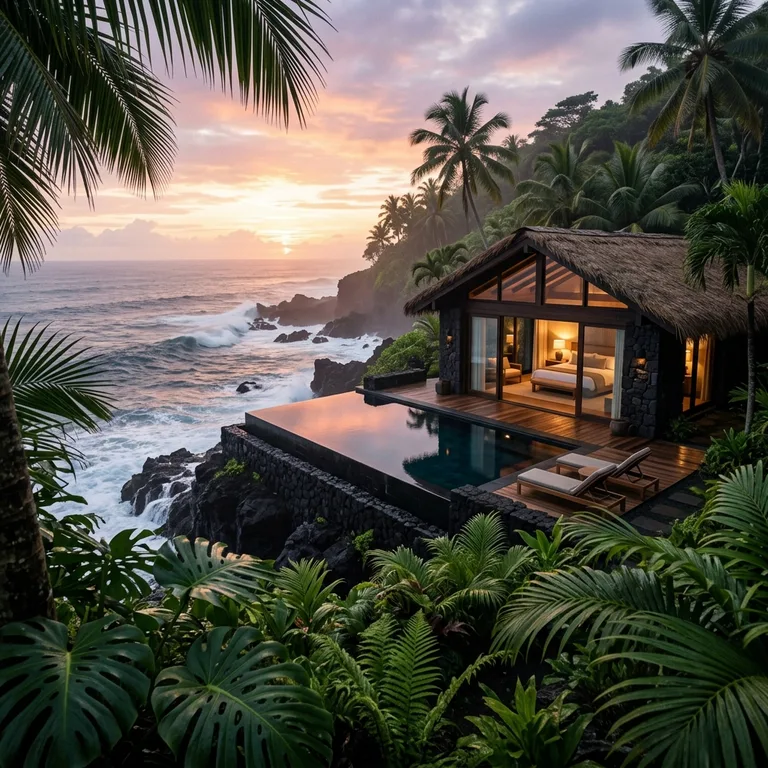
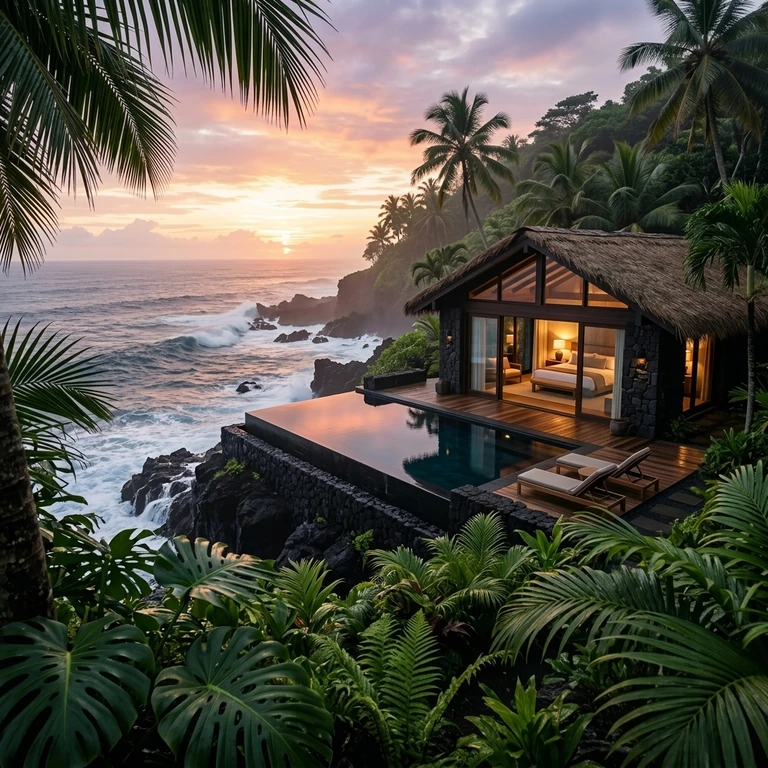
Updated project

diff --git a/index.html b/index.html
@@ -4,6 +4,10 @@
 <meta charset="utf-8"/>
 <meta content="width=device-width, initial-scale=1.0" name="viewport"/>
 <title>Lumière Obsidian Tropics | Luxury Resort Sanctuary</title>
+<link rel="apple-touch-icon" sizes="180x180" href="./assets/favicon/apple-touch-icon.png">
+<link rel="icon" type="image/png" sizes="32x32" href="./assets/favicon/favicon-32x32.png">
+<link rel="icon" type="image/png" sizes="16x16" href="./assets/favicon/favicon-16x16.png">
+<link rel="shortcut icon" href="./assets/favicon/favicon.ico">
 <link rel="preload" as="image" href="./assets/images/hero-volcanic-dawn.webp"/>
 <script src="https://cdn.tailwindcss.com?plugins=forms,container-queries"></script>
 <link href="https://fonts.googleapis.com/css2?family=Playfair+Display:ital,wght@0,400;0,700;1,400&amp;family=DM+Sans:wght@400;500&amp;display=swap" rel="stylesheet"/>
@@ -164,7 +168,7 @@
         .floating-actions {
             position: fixed;
             right: 16px;
-            bottom: 36px;
+            bottom: 48px; /* Shifted 12px upward from 36px */
             display: flex;
             flex-direction: column-reverse;
             gap: 16px;
@@ -189,7 +193,7 @@
             }
             .floating-actions {
                 right: 24px;
-                bottom: 44px;
+                bottom: 56px; /* Shifted 12px upward from 44px */
                 gap: 20px;
             }
         }
@@ -425,21 +429,24 @@
         /* 8. Floating Booking Bar */
         #floating-booking-bar {
             position: fixed;
-            bottom: 20px;
+            bottom: 32px; /* Shifted 12px upward from 20px */
             left: 0;
             right: 0;
             background-color: #fbf9f8;
             border-top: 1px solid rgba(0, 0, 0, 0.08);
             z-index: 80;
-            transform: translateY(calc(100% + 20px));
-            transition: transform 0.5s cubic-bezier(0.19, 1, 0.22, 1);
+            opacity: 0; /* Hidden by default on page load */
+            visibility: hidden; /* Hidden by default on page load */
+            pointer-events: none; /* Ignore interactions when hidden */
+            transition: opacity 0.5s ease, visibility 0.5s ease; /* Smooth fade transitions */
             box-shadow: 0 -10px 30px rgba(0, 0, 0, 0.05);
-            will-change: transform;
             backface-visibility: hidden;
             -webkit-backface-visibility: hidden;
         }
         #floating-booking-bar.active {
-            transform: translateY(0);
+            opacity: 1;
+            visibility: visible;
+            pointer-events: auto;
         }
 
         /* 9. Interactive Map details card */
@@ -479,18 +486,46 @@
             filter: url(#mist-filter);
         }
         /* Footer Text Contrast Overrides */
+        footer h5 {
+            color: #ffffff !important;
+        }
         footer {
-            color: rgba(255, 255, 255, 0.72);
+            color: rgba(255, 255, 255, 0.88);
         }
         footer p,
         footer li {
-            color: rgba(255, 255, 255, 0.78);
+            color: rgba(255, 255, 255, 0.88);
         }
         footer a {
-            color: rgba(255, 255, 255, 0.88);
+            color: rgba(255, 255, 255, 0.95);
         }
         footer a:hover {
             color: #ffffff;
+        }
+        /* Improve readability by overriding opacity classes inside footer */
+        footer .opacity-70,
+        footer .opacity-60 {
+            opacity: 1.0;
+        }
+        footer .opacity-30 {
+            opacity: 1.0;
+        }
+        footer .text-on-primary-container\/40 {
+            color: rgba(255, 255, 255, 0.70);
+        }
+        /* Style the copyright text specifically */
+        footer .pt-10 p {
+            color: rgba(255, 255, 255, 0.70) !important;
+        }
+
+        /* Scroll To Top Contrast & Shadow Fix */
+        #scroll-to-top {
+            color: #1b1c1c;
+            z-index: 9999;
+            filter: drop-shadow(0 0 3px rgba(255, 255, 255, 0.8));
+        }
+        #scroll-to-top:hover {
+            color: #6c5e06 !important;
         }
     </style>
 </head>
@@ -2022,31 +2057,16 @@
         });
     });
 
-    // 14. Floating Booking Bar Scroll Trigger
+    // 14. Floating Booking Bar Control (ScrollTrigger fires once to show the bar and then stops)
     const bookingBar = document.getElementById('floating-booking-bar');
     let bookingBarClosedByUser = false;
 
     if (bookingBar) {
         ScrollTrigger.create({
-            trigger: 'body',
-            start: 'top -30%',
+            trigger: '#hero',
+            start: 'bottom 10%',
+            once: true,
             onEnter: () => {
-                if (!bookingBarClosedByUser && !ScrollTrigger.isInViewport(document.getElementById('reserve'))) {
-                    bookingBar.classList.add('active');
-                }
-            },
-            onLeaveBack: () => {
-                bookingBar.classList.remove('active');
-            }
-        });
-
-        ScrollTrigger.create({
-            trigger: '#reserve',
-            start: 'top 80%',
-            onEnter: () => {
-                bookingBar.classList.remove('active');
-            },
-            onLeaveBack: () => {
                 if (!bookingBarClosedByUser) {
                     bookingBar.classList.add('active');
                 }